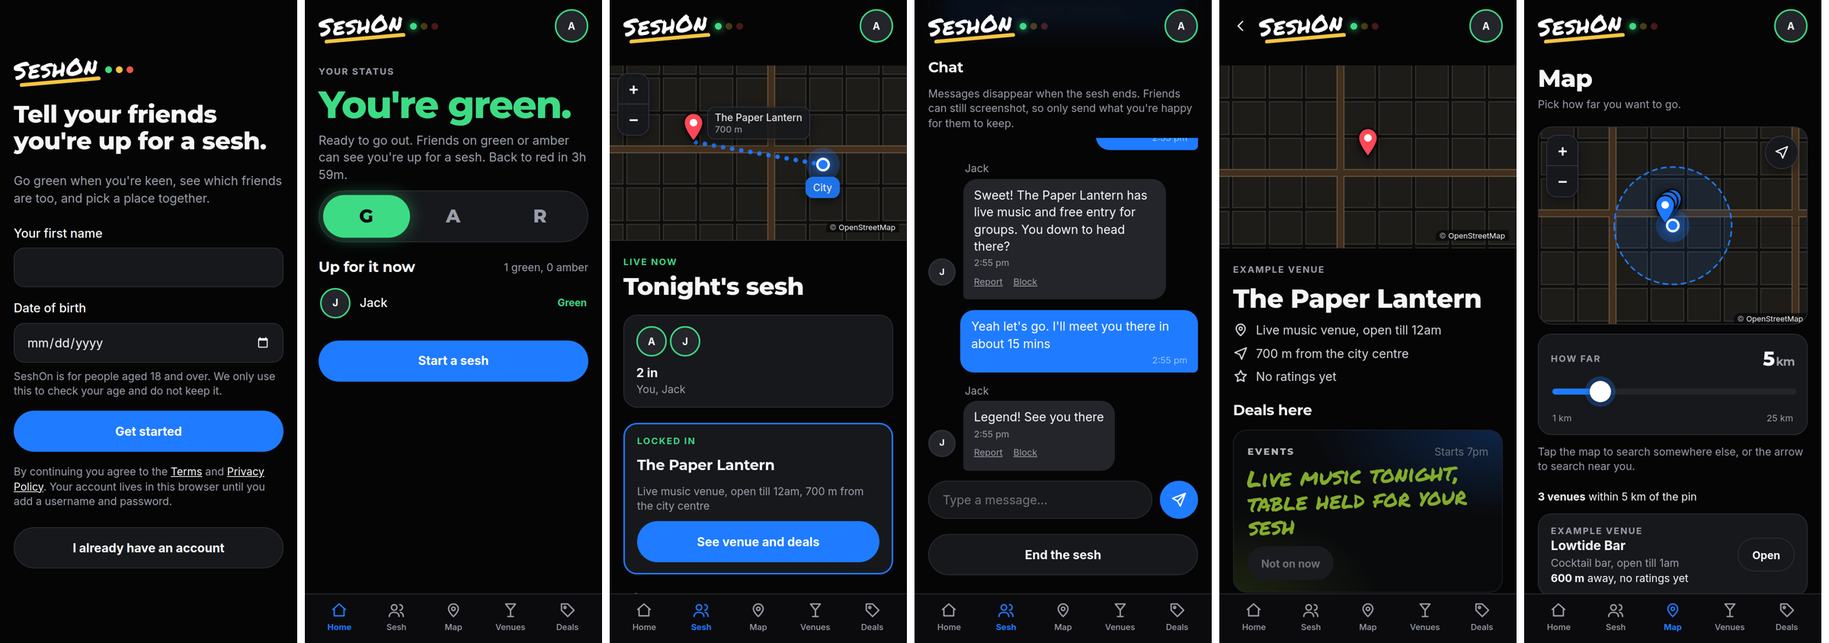
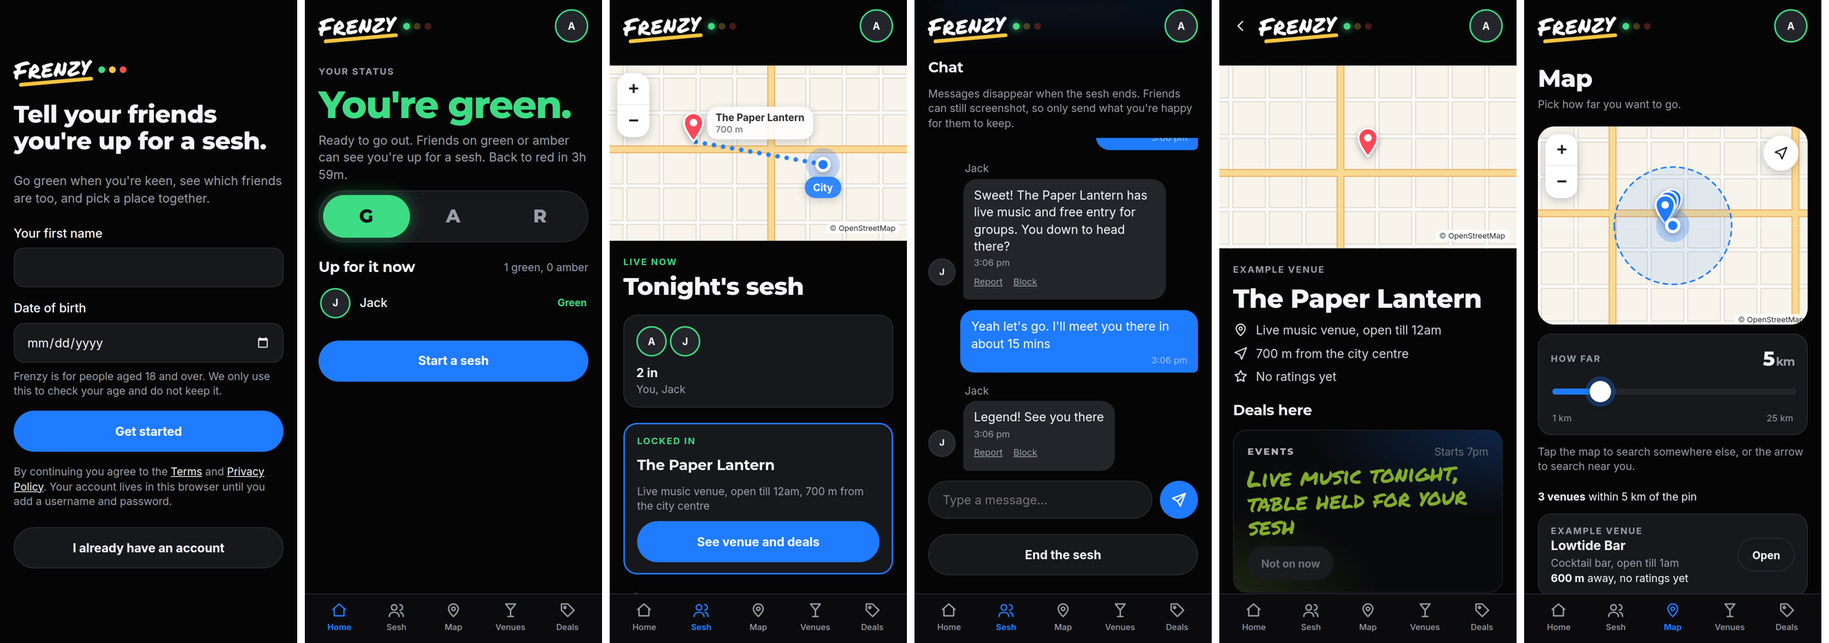
Rename the app to Frenzy and give the map a bright Snap Map style
The name shown in the app, home-screen icon and legal pages is now Frenzy.
Storage keys and the login address domain keep their old names so nobody is
signed out. The map is now light and colourful with white label bubbles,
white controls and pins with a white outline.

Claude-Session: https://claude.ai/code/session_01GEaruTsU1B5X7h7thVB5mG

diff --git a/docs/app.js b/docs/app.js
@@ -1,4 +1,4 @@
-// SeshOn web app. Loaded by index.html; kept in its own file so the page can forbid inline scripts.
+// Frenzy web app. Loaded by index.html; kept in its own file so the page can forbid inline scripts.
 (function () {
   'use strict';
   var CFG = window.SESHHON_CONFIG || window.SESSHON_CONFIG || {};
@@ -160,8 +160,8 @@
         try { json = text ? JSON.parse(text) : null; } catch (e) {}
         if (!res.ok && json && json.code === 'PGRST202') {
           // The database is missing a function this page calls: an update in supabase/ has not been run yet.
-          console.error('SeshOn database is out of date. Run supabase/update.sql in the Supabase SQL editor.', json.message);
-          throw new Error('SeshOn is being updated. Try again soon.');
+          console.error('Frenzy database is out of date. Run supabase/update.sql in the Supabase SQL editor.', json.message);
+          throw new Error('Frenzy is being updated. Try again soon.');
         }
         if (!res.ok) throw new Error((json && json.message) || 'Something went wrong. Try again.');
         return json;
@@ -309,27 +309,27 @@
 
   // The brush-script name with the three status dots beside it. With a status, only that dot is lit.
   function logo(status) {
-    return '<div class="logo"><div class="wordmark">SeshOn</div><div class="dots' + (status ? '' : ' all') + '" aria-hidden="true">' +
+    return '<div class="logo"><div class="wordmark">Frenzy</div><div class="dots' + (status ? '' : ' all') + '" aria-hidden="true">' +
       STOPS.map(function (k) { return '<i style="--c:' + COLORS[k] + '"' + (k === status ? ' class="lit"' : '') + '></i>'; }).join('') + '</div></div>';
   }
 
   /* ---------- screens ---------- */
   function notConnected() {
     return '<div class="stack" style="gap:20px;margin-block:auto">' + logo() + '<h1>Not connected yet</h1>' +
-      '<p class="muted">This copy of SeshOn has not been pointed at its database. Add the project address and public key to config.js.</p></div>';
+      '<p class="muted">This copy of Frenzy has not been pointed at its database. Add the project address and public key to config.js.</p></div>';
   }
   function starting() {
     return '<div class="stack" style="gap:20px;margin-block:auto">' + logo() + '<p class="muted">Loading…</p></div>';
   }
   function tooYoung() {
-    return '<div class="stack" style="gap:20px;margin-block:auto">' + logo() + '<h1>SeshOn is for people aged 18 and over.</h1>' +
+    return '<div class="stack" style="gap:20px;margin-block:auto">' + logo() + '<h1>Frenzy is for people aged 18 and over.</h1>' +
       '<p class="muted">We can\'t set up an account for you. If you entered your date of birth wrongly, contact us through the Privacy Policy page.</p></div>';
   }
   function ageCheck() {
     var who = PROVIDER_NAMES[ui.age && ui.age.provider] || 'Our age check partner';
     var h = '<div class="stack" style="gap:20px;margin-block:auto">' + logo() + '<h1>Quick age check</h1>' +
-      '<p class="muted">SeshOn is for people aged 18 and over. ' + esc(who) + ' checks your age with a quick selfie. If it can\'t tell from your face, it asks you to show ID instead.</p>' +
-      '<p class="muted small">' + esc(who) + ' only tells us whether you passed. SeshOn never sees or keeps your photo or ID. See the <a href="privacy.html">Privacy Policy</a>.</p>';
+      '<p class="muted">Frenzy is for people aged 18 and over. ' + esc(who) + ' checks your age with a quick selfie. If it can\'t tell from your face, it asks you to show ID instead.</p>' +
+      '<p class="muted small">' + esc(who) + ' only tells us whether you passed. Frenzy never sees or keeps your photo or ID. See the <a href="privacy.html">Privacy Policy</a>.</p>';
     if (ui.ageNote) h += '<p class="error" id="age-note">' + esc(ui.ageNote) + '</p>';
     if (ui.age && ui.age.pending) h += '<button class="btn" data-act="age-finish"' + (ui.ageBusy ? ' disabled' : '') + '>I\'ve finished, check again</button><button class="btn ghost" data-act="age-start"' + (ui.ageBusy ? ' disabled' : '') + '>Start again</button>';
     else h += '<button class="btn" data-act="age-start"' + (ui.ageBusy ? ' disabled' : '') + '>Start age check</button>';
@@ -344,7 +344,7 @@
       '<p class="muted">' + (invited ? 'A friend invited you. Sign up and they will get your friend request.' : 'Go green when you\'re keen, see which friends are too, and pick a place together.') + '</p>' +
       '<form id="join" class="stack" style="gap:16px" novalidate>' +
       '<div class="field"><label for="name">Your first name</label><input id="name" type="text" autocomplete="given-name" maxlength="24"></div>' +
-      '<div class="field"><label for="dob">Date of birth</label><input id="dob" type="date" autocomplete="bday" min="1900-01-01"><span class="muted small">SeshOn is for people aged 18 and over. We only use this to check your age and do not keep it.</span></div>' +
+      '<div class="field"><label for="dob">Date of birth</label><input id="dob" type="date" autocomplete="bday" min="1900-01-01"><span class="muted small">Frenzy is for people aged 18 and over. We only use this to check your age and do not keep it.</span></div>' +
       (CAPTCHA_KEY ? '<div id="captcha"></div>' : '') +
       '<p id="join-error" class="error" hidden></p>' +
       '<button class="btn" type="submit" id="join-btn">Get started</button>' +
@@ -415,7 +415,7 @@
 
     var friends = D.friends;
     if (!friends.length) {
-      h += '<div class="card"><h2>Add your friends</h2><p class="muted small">SeshOn only works with friends on it. Send them your invite link, then accept their request when it arrives.</p>' +
+      h += '<div class="card"><h2>Add your friends</h2><p class="muted small">Frenzy only works with friends on it. Send them your invite link, then accept their request when it arrives.</p>' +
         '<button class="btn" data-act="share">Send your invite link</button>' + linkBox() + '</div>';
     } else if (s === 'off') {
       h += '<div class="card"><h2>Friends are hidden while you\'re red</h2><p class="muted small">Slide to green or amber to see who\'s up for it tonight.</p></div>';
@@ -570,10 +570,10 @@
     }
     return h + '<div class="stack" style="gap:12px" id="venue-list">' + venueList() + '</div>';
   }
-  var PIN_FILL = { near: '#1F7BFF', far: '#6B7080', goal: '#FF4757' };
+  var PIN_FILL = { near: '#1F7BFF', far: '#8A90A0', goal: '#FF4757' };
   function pinIcon(kind) {
     return L.divIcon({ className: '', iconSize: [30, 40], iconAnchor: [15, 39],
-      html: '<span class="pin' + (kind === 'far' ? ' far' : '') + '"><svg width="30" height="40" viewBox="0 0 30 40" aria-hidden="true"><path d="M15 38.5S2.5 23.6 2.5 14a12.5 12.5 0 0 1 25 0c0 9.6-12.5 24.5-12.5 24.5z" fill="' + PIN_FILL[kind] + '" stroke="#0B0B0D" stroke-width="2"/><circle cx="15" cy="14" r="5" fill="#fff"/></svg></span>' });
+      html: '<span class="pin' + (kind === 'far' ? ' far' : '') + '"><svg width="30" height="40" viewBox="0 0 30 40" aria-hidden="true"><path d="M15 38.5S2.5 23.6 2.5 14a12.5 12.5 0 0 1 25 0c0 9.6-12.5 24.5-12.5 24.5z" fill="' + PIN_FILL[kind] + '" stroke="#fff" stroke-width="2.5"/><circle cx="15" cy="14" r="5" fill="#fff"/></svg></span>' });
   }
   function youIcon() { return L.divIcon({ className: '', iconSize: [44, 44], iconAnchor: [22, 22], html: '<span class="you-dot"></span>' }); }
   function fromName() {
@@ -868,7 +868,7 @@
       }).join('') + '</div>';
     }
 
-    h += '<div class="card"><h2>Put SeshOn on your home screen</h2><p class="muted small">On iPhone, tap the Share button in Safari, then Add to Home Screen. On Android, open the browser menu and tap Add to Home screen.</p></div>';
+    h += '<div class="card"><h2>Put Frenzy on your home screen</h2><p class="muted small">On iPhone, tap the Share button in Safari, then Add to Home Screen. On Android, open the browser menu and tap Add to Home screen.</p></div>';
 
     h += '<div class="card"><h2>About</h2><p class="small"><a href="privacy.html">Privacy Policy</a></p><p class="small"><a href="terms.html">Terms of use</a></p></div>';
 
@@ -953,7 +953,7 @@
     var link = inviteLink();
     ui.linkShown = true;
     if (navigator.share) {
-      navigator.share({ title: 'SeshOn', text: 'Add me on SeshOn so we can see when we\'re both up for a sesh.', url: link }).catch(function () {});
+      navigator.share({ title: 'Frenzy', text: 'Add me on Frenzy so we can see when we\'re both up for a sesh.', url: link }).catch(function () {});
       render();
       return;
     }

diff --git a/docs/index.html b/docs/index.html
@@ -3,15 +3,15 @@
 <head>
 <meta charset="utf-8">
 <!-- Security policy: scripts only from this site (and the Cloudflare Turnstile sign-up check), and the app can only talk to
-     the SeshOn Supabase project.
+     the Frenzy Supabase project.
      Map tiles are images from OpenStreetMap (img-src); the map code itself (Leaflet) is a copy kept in vendor/, and the fonts are copies kept in fonts/. If the Supabase project ever changes, change connect-src here as well as config.js. -->
 <meta http-equiv="Content-Security-Policy" content="default-src 'none'; script-src 'self' https://challenges.cloudflare.com; style-src 'self' 'unsafe-inline'; font-src 'self'; img-src 'self' data: https://tile.openstreetmap.org; connect-src https://xfwrhetohauzhqqhkibm.supabase.co; frame-src https://challenges.cloudflare.com; manifest-src 'self'; base-uri 'none'; form-action 'none'; object-src 'none'">
 <meta name="viewport" content="width=device-width,initial-scale=1,viewport-fit=cover">
 <meta name="theme-color" content="#050506">
 <meta name="apple-mobile-web-app-capable" content="yes">
 <meta name="apple-mobile-web-app-status-bar-style" content="black-translucent">
-<meta name="apple-mobile-web-app-title" content="SeshOn">
-<title>SeshOn</title>
+<meta name="apple-mobile-web-app-title" content="Frenzy">
+<title>Frenzy</title>
 <link rel="manifest" href="manifest.webmanifest">
 <link rel="apple-touch-icon" href="icon-180.png">
 <link rel="icon" href="icon-192.png">
@@ -150,32 +150,33 @@ a { color: var(--fg); }
 .send { width: 50px; height: 50px; flex: none; border-radius: 50%; border: 0; background: var(--accent); color: #fff; display: flex; align-items: center; justify-content: center; }
 .send:disabled { background: var(--surface-2); color: var(--muted); }
 .error { color: var(--off); font-size: 14px; font-weight: 500; }
-/* Maps: OpenStreetMap tiles turned into a dark navy night map. Pins are drawn by the app and keep their colours. */
-.map { height: 260px; border-radius: 18px; overflow: hidden; border: 1px solid var(--line); background: #0E1420; z-index: 0; }
+/* Maps: bright, soft and friendly like Snap Map: OpenStreetMap tiles made a little more colourful, with white bubbles for
+   labels and controls, and chunky pins with a white outline. */
+.map { height: 260px; border-radius: 22px; overflow: hidden; border: 0; background: #E9EEF2; z-index: 0; }
 .map.big { height: min(52vh, 420px); min-height: 280px; }
 .bleed { margin-inline: -18px; }
-.map.route { height: 230px; border-radius: 0; border: 0; border-bottom: 1px solid var(--line); }
+.map.route { height: 230px; border-radius: 0; }
 .map.hero { height: 240px; border-radius: 0; border: 0; }
 .map.hero .leaflet-control-zoom { display: none; }
 .map-box { position: relative; }
-.leaflet-container { background: #0E1420; font-family: var(--body); }
-.map .leaflet-tile-pane { filter: invert(1) hue-rotate(180deg) saturate(0.5) brightness(1.05) contrast(0.9); }
-.map.leaflet-container::after { content: ''; position: absolute; inset: 0; z-index: 250; pointer-events: none; background: #123A8A; mix-blend-mode: color; opacity: 0.55; }
-.map .leaflet-control-attribution { background: rgba(5, 5, 6, 0.7); color: var(--muted); font-size: 10px; border-radius: 8px 0 0 0; }
-.map .leaflet-control-attribution a { color: var(--fg); }
-.map .leaflet-bar { border: 1px solid #343846; border-radius: 14px; overflow: hidden; box-shadow: 0 4px 14px rgba(0, 0, 0, 0.45); }
-.map .leaflet-bar a { width: 40px; height: 40px; line-height: 40px; background: rgba(23, 24, 28, 0.92); color: var(--fg); border-color: #343846; font-size: 20px; }
-.map .leaflet-bar a:hover { background: var(--surface-2); }
-.pin { position: relative; display: block; width: 30px; height: 40px; filter: drop-shadow(0 3px 5px rgba(0, 0, 0, 0.6)); }
+.leaflet-container { background: #E9EEF2; font-family: var(--body); }
+.map .leaflet-tile-pane { filter: saturate(1.4) brightness(1.04) contrast(0.96); }
+.map .leaflet-control-attribution { background: rgba(255, 255, 255, 0.8); color: #555A66; font-size: 10px; border-radius: 8px 0 0 0; }
+.map .leaflet-control-attribution a { color: #22252C; }
+.map .leaflet-bar { border: 0; border-radius: 16px; overflow: hidden; box-shadow: 0 3px 12px rgba(20, 30, 50, 0.25); }
+.map .leaflet-bar a { width: 42px; height: 42px; line-height: 42px; background: #fff; color: #16181D; border-color: #E6E8EC; font-size: 22px; }
+.map .leaflet-bar a:hover { background: #F2F4F7; }
+.pin { position: relative; display: block; width: 30px; height: 40px; filter: drop-shadow(0 3px 4px rgba(20, 30, 50, 0.35)); transition: transform 0.15s; }
+.leaflet-marker-icon:hover .pin { transform: scale(1.12); transform-origin: 50% 100%; }
 .pin svg { display: block; }
 .pin.far { opacity: 0.55; transform: scale(0.75); transform-origin: 50% 100%; }
 .you-dot { display: block; width: 44px; height: 44px; border-radius: 50%; background: rgba(31, 123, 255, 0.25); position: relative; }
-.you-dot::after { content: ''; position: absolute; inset: 13px; border-radius: 50%; background: var(--accent); border: 3px solid #fff; box-shadow: 0 0 10px rgba(31, 123, 255, 0.9); }
-.leaflet-tooltip.tag { background: rgba(23, 24, 28, 0.94); color: var(--fg); border: 1px solid #343846; border-radius: 10px; padding: 5px 9px; font-size: 13px; font-weight: 500; box-shadow: 0 4px 12px rgba(0, 0, 0, 0.5); line-height: 1.25; }
+.you-dot::after { content: ''; position: absolute; inset: 12px; border-radius: 50%; background: var(--accent); border: 4px solid #fff; box-shadow: 0 2px 8px rgba(20, 30, 50, 0.35); }
+.leaflet-tooltip.tag { background: #fff; color: #16181D; border: 0; border-radius: 14px; padding: 6px 11px; font-size: 13px; font-weight: 700; box-shadow: 0 3px 12px rgba(20, 30, 50, 0.25); line-height: 1.25; }
 .leaflet-tooltip.tag::before { display: none; }
-.leaflet-tooltip.tag small { display: block; color: var(--muted); font-size: 12px; }
+.leaflet-tooltip.tag small { display: block; color: #5E6370; font-size: 12px; font-weight: 500; }
 .leaflet-tooltip.tag.you { background: var(--accent); border-color: var(--accent); color: #fff; }
-.map-fab { position: absolute; top: 12px; right: 12px; z-index: 500; width: 44px; height: 44px; border-radius: 50%; border: 1px solid #343846; background: rgba(23, 24, 28, 0.92); color: var(--fg); display: flex; align-items: center; justify-content: center; box-shadow: 0 4px 14px rgba(0, 0, 0, 0.45); }
+.map-fab { position: absolute; top: 12px; right: 12px; z-index: 500; width: 46px; height: 46px; border-radius: 50%; border: 0; background: #fff; color: #16181D; display: flex; align-items: center; justify-content: center; box-shadow: 0 3px 12px rgba(20, 30, 50, 0.25); }
 .map-fab[aria-pressed="true"] { background: var(--accent); border-color: var(--accent); color: #fff; }
 /* Radius control: a big readout and a thick slider that fills blue up to the chosen distance. */
 .radius { background: var(--surface); border: 1px solid var(--line); border-radius: 18px; padding: 14px 16px 6px; }

diff --git a/docs/privacy.html b/docs/privacy.html
@@ -1,20 +1,20 @@
-<!doctype html><html lang="en-AU"><head><meta charset="utf-8"><meta http-equiv="Content-Security-Policy" content="default-src 'none'; style-src 'self'; font-src 'self'; img-src 'self'; base-uri 'none'; form-action 'none'"><meta name="viewport" content="width=device-width,initial-scale=1"><meta name="theme-color" content="#050506"><link rel="stylesheet" href="legal.css"><title>SeshOn Privacy Policy</title></head><body><main>
-<a class="back" href="./">&larr; Back to SeshOn</a>
+<!doctype html><html lang="en-AU"><head><meta charset="utf-8"><meta http-equiv="Content-Security-Policy" content="default-src 'none'; style-src 'self'; font-src 'self'; img-src 'self'; base-uri 'none'; form-action 'none'"><meta name="viewport" content="width=device-width,initial-scale=1"><meta name="theme-color" content="#050506"><link rel="stylesheet" href="legal.css"><title>Frenzy Privacy Policy</title></head><body><main>
+<a class="back" href="./">&larr; Back to Frenzy</a>
 <h1>Privacy Policy</h1>
 <p class="muted">Last updated: 4 October 2026</p>
-<div class="draft">Draft for the SeshOn beta. It describes how the app works today and has not yet been reviewed by a lawyer. Add the operator's name and a privacy contact before public launch (marked [ ] below).</div>
+<div class="draft">Draft for the Frenzy beta. It describes how the app works today and has not yet been reviewed by a lawyer. Add the operator's name and a privacy contact before public launch (marked [ ] below).</div>
 
 <h2>Who we are</h2>
-<p>SeshOn is operated by [operator name and ABN]. In this policy, "we" means the operator. Contact us about privacy at [privacy contact email].</p>
+<p>Frenzy is operated by [operator name and ABN]. In this policy, "we" means the operator. Contact us about privacy at [privacy contact email].</p>
 
-<h2>Who can use SeshOn</h2>
-<p>SeshOn is only for people aged 18 and over. At sign-up we ask for your date of birth to check your age. We do <strong>not</strong> keep your date of birth. We keep only a record that you were confirmed as 18 or over, and when. If you are under 18, please do not use SeshOn.</p>
+<h2>Who can use Frenzy</h2>
+<p>Frenzy is only for people aged 18 and over. At sign-up we ask for your date of birth to check your age. We do <strong>not</strong> keep your date of birth. We keep only a record that you were confirmed as 18 or over, and when. If you are under 18, please do not use Frenzy.</p>
 
 <h2>The age check</h2>
-<p>To make sure everyone on SeshOn is 18 or over, you may be asked to do a quick age check with our age check provider, [Yoti or Didit &mdash; confirm]. The check happens on the provider's own page, not inside SeshOn:</p>
+<p>To make sure everyone on Frenzy is 18 or over, you may be asked to do a quick age check with our age check provider, [Yoti or Didit &mdash; confirm]. The check happens on the provider's own page, not inside Frenzy:</p>
 <ul>
 <li>You take a live selfie and the provider estimates your age from it. If the estimate is under 25, you are asked to show photo ID (which is matched to your selfie) or use a digital ID instead.</li>
-<li>The provider tells SeshOn only whether you passed, when, and which way (selfie, ID or digital ID). <strong>SeshOn never receives or keeps your selfie, your ID, your date of birth from your ID, or your estimated age.</strong></li>
+<li>The provider tells Frenzy only whether you passed, when, and which way (selfie, ID or digital ID). <strong>Frenzy never receives or keeps your selfie, your ID, your date of birth from your ID, or your estimated age.</strong></li>
 <li>The provider uses your selfie and ID only for the age check and deletes them once it is done, under its contract with us. Its privacy notice is shown before you start.</li>
 <li>The provider may process the check outside Australia ([provider's processing region &mdash; confirm]). We take reasonable steps to make sure it handles your information consistently with the Australian Privacy Principles.</li>
 <li>If the selfie shows you are clearly over 18, you do not have to show any ID.</li>
@@ -37,7 +37,7 @@
 
 <h2>Why we use it</h2>
 <ul>
-<li>To run SeshOn: show friends your status, run seshes and votes, show deals and confirm deal codes.</li>
+<li>To run Frenzy: show friends your status, run seshes and votes, show deals and confirm deal codes.</li>
 <li>To keep it safe: prevent misuse, enforce the 18+ rule and investigate problems.</li>
 <li>To meet legal obligations.</li>
 </ul>
@@ -68,7 +68,7 @@
 </ul>
 
 <h2>Security</h2>
-<p>Data is sent over an encrypted connection. Access rules in the database mean you can only read what you are meant to see. We never put secret keys in the app. No system is perfectly secure, so please use SeshOn with that in mind. If a breach is likely to cause serious harm, we will notify affected people and the Office of the Australian Information Commissioner as the law requires.</p>
+<p>Data is sent over an encrypted connection. Access rules in the database mean you can only read what you are meant to see. We never put secret keys in the app. No system is perfectly secure, so please use Frenzy with that in mind. If a breach is likely to cause serious harm, we will notify affected people and the Office of the Australian Information Commissioner as the law requires.</p>
 
 <h2>Your choices and rights</h2>
 <p>You can ask to see or correct the information we hold about you, or ask us to delete it, by contacting [privacy contact email]. If you are unhappy with how we handled your information, contact us first. You can also complain to the <a href="https://www.oaic.gov.au">Office of the Australian Information Commissioner</a>.</p>

diff --git a/docs/terms.html b/docs/terms.html
@@ -1,15 +1,15 @@
-<!doctype html><html lang="en-AU"><head><meta charset="utf-8"><meta http-equiv="Content-Security-Policy" content="default-src 'none'; style-src 'self'; font-src 'self'; img-src 'self'; base-uri 'none'; form-action 'none'"><meta name="viewport" content="width=device-width,initial-scale=1"><meta name="theme-color" content="#050506"><link rel="stylesheet" href="legal.css"><title>SeshOn Terms of Use</title></head><body><main>
-<a class="back" href="./">&larr; Back to SeshOn</a>
+<!doctype html><html lang="en-AU"><head><meta charset="utf-8"><meta http-equiv="Content-Security-Policy" content="default-src 'none'; style-src 'self'; font-src 'self'; img-src 'self'; base-uri 'none'; form-action 'none'"><meta name="viewport" content="width=device-width,initial-scale=1"><meta name="theme-color" content="#050506"><link rel="stylesheet" href="legal.css"><title>Frenzy Terms of Use</title></head><body><main>
+<a class="back" href="./">&larr; Back to Frenzy</a>
 <h1>Terms of Use</h1>
 <p class="muted">Last updated: 3 October 2026</p>
-<div class="draft">Draft for the SeshOn beta. It has not yet been reviewed by a lawyer. Add the operator's name before public launch (marked [ ] below).</div>
+<div class="draft">Draft for the Frenzy beta. It has not yet been reviewed by a lawyer. Add the operator's name before public launch (marked [ ] below).</div>
 
-<h2>About SeshOn</h2>
-<p>SeshOn is a beta app run by [operator name and ABN]. It helps friends see who is up for going out, choose a venue together and find venue deals. By using SeshOn you agree to these terms and our <a href="privacy.html">Privacy Policy</a>.</p>
+<h2>About Frenzy</h2>
+<p>Frenzy is a beta app run by [operator name and ABN]. It helps friends see who is up for going out, choose a venue together and find venue deals. By using Frenzy you agree to these terms and our <a href="privacy.html">Privacy Policy</a>.</p>
 
 <h2>Who can use it</h2>
 <ul>
-<li>You must be 18 or over. If you are not, you must not use SeshOn.</li>
+<li>You must be 18 or over. If you are not, you must not use Frenzy.</li>
 <li>You must give your real first name and your real date of birth.</li>
 <li>One person, one account. Do not share your account.</li>
 </ul>
@@ -17,9 +17,9 @@
 <h2>Using it responsibly</h2>
 <ul>
 <li>Do not harass, threaten or impersonate anyone, or send spam.</li>
-<li>Do not try to break, overload or reverse engineer SeshOn, or access other people's data.</li>
+<li>Do not try to break, overload or reverse engineer Frenzy, or access other people's data.</li>
 <li>Do not use deal codes in a way that is dishonest, such as sharing or reselling them.</li>
-<li>Look after yourself and your friends. SeshOn does not encourage drinking and you should never drink to excess. Never drink and drive.</li>
+<li>Look after yourself and your friends. Frenzy does not encourage drinking and you should never drink to excess. Never drink and drive.</li>
 </ul>
 <p>We may remove content or accounts that break these terms.</p>
 
@@ -33,7 +33,7 @@
 
 <h2>Deals and venues</h2>
 <ul>
-<li>Deals may not be available in this beta. When they are, they are offered by venues, not by SeshOn. SeshOn is not the seller of any food, drink or entry.</li>
+<li>Deals may not be available in this beta. When they are, they are offered by venues, not by Frenzy. Frenzy is not the seller of any food, drink or entry.</li>
 <li>Deals have times, limits and conditions. A deal can be changed or withdrawn by the venue. The venue decides whether to honour a deal at the door.</li>
 <li>Alcohol deals are for people 18 and over. Bring photo ID. Venues must refuse service to anyone who is under 18 or intoxicated.</li>
 <li>Each person can use a deal once per night. A deal code lasts 15 minutes.</li>
@@ -44,7 +44,7 @@
 <p>Ratings should be honest and based on your own experience. Do not rate venues you are connected with in a way that misleads others.</p>
 
 <h2>Beta service</h2>
-<p>SeshOn is a beta. It may be unavailable, change or contain mistakes. We do not promise it will always work or that data will never be lost.</p>
+<p>Frenzy is a beta. It may be unavailable, change or contain mistakes. We do not promise it will always work or that data will never be lost.</p>
 
 <h2>Our responsibility</h2>
 <p>Nothing in these terms limits any rights you have under the Australian Consumer Law that cannot be excluded. Subject to that, we are not liable for what happens at venues or between users, or for indirect or consequential loss.</p>

diff --git a/tools/live/icon.html b/tools/live/icon.html
@@ -1,1 +1,5 @@
-<body style="margin:0"><div id="i" style="width:512px;height:512px;background:#121110;display:flex;align-items:center;justify-content:center"><div style="width:300px;height:300px;border-radius:50%;background:#3DDC84;display:flex;align-items:center;justify-content:center;font:800 190px/1 'Trebuchet MS',sans-serif;color:#121110;letter-spacing:-8px">s</div></div></body>
+<style>@font-face { font-family: 'Permanent Marker'; src: url(../../docs/fonts/permanent-marker-latin-400-normal.woff2) format('woff2'); }</style>
+<body style="margin:0"><div id="i" style="width:512px;height:512px;background:#050506;display:flex;flex-direction:column;align-items:center;justify-content:center;gap:34px">
+  <div style="position:relative;font:400 300px/1 'Permanent Marker',cursive;color:#fff;transform:rotate(-6deg);margin-top:20px">F<div style="position:absolute;left:-10%;right:-25%;bottom:6px;height:22px;border-radius:10px 30px 8px 24px;background:#F5C542;transform:skewX(-20deg)"></div></div>
+  <div style="display:flex;gap:26px"><i style="width:44px;height:44px;border-radius:50%;background:#3DDC84"></i><i style="width:44px;height:44px;border-radius:50%;background:#F5C542"></i><i style="width:44px;height:44px;border-radius:50%;background:#F0524B"></i></div>
+</div></body>

diff --git a/docs/config.js b/docs/config.js
@@ -1,4 +1,4 @@
-// Where this copy of SeshOn finds its database.
+// Where this copy of Frenzy finds its database.
 // The project URL and the public ("anon" / "publishable") key are meant to be public:
 // the database rules decide what each person can see. NEVER put a secret / service_role
 // key or the database password in this file.
